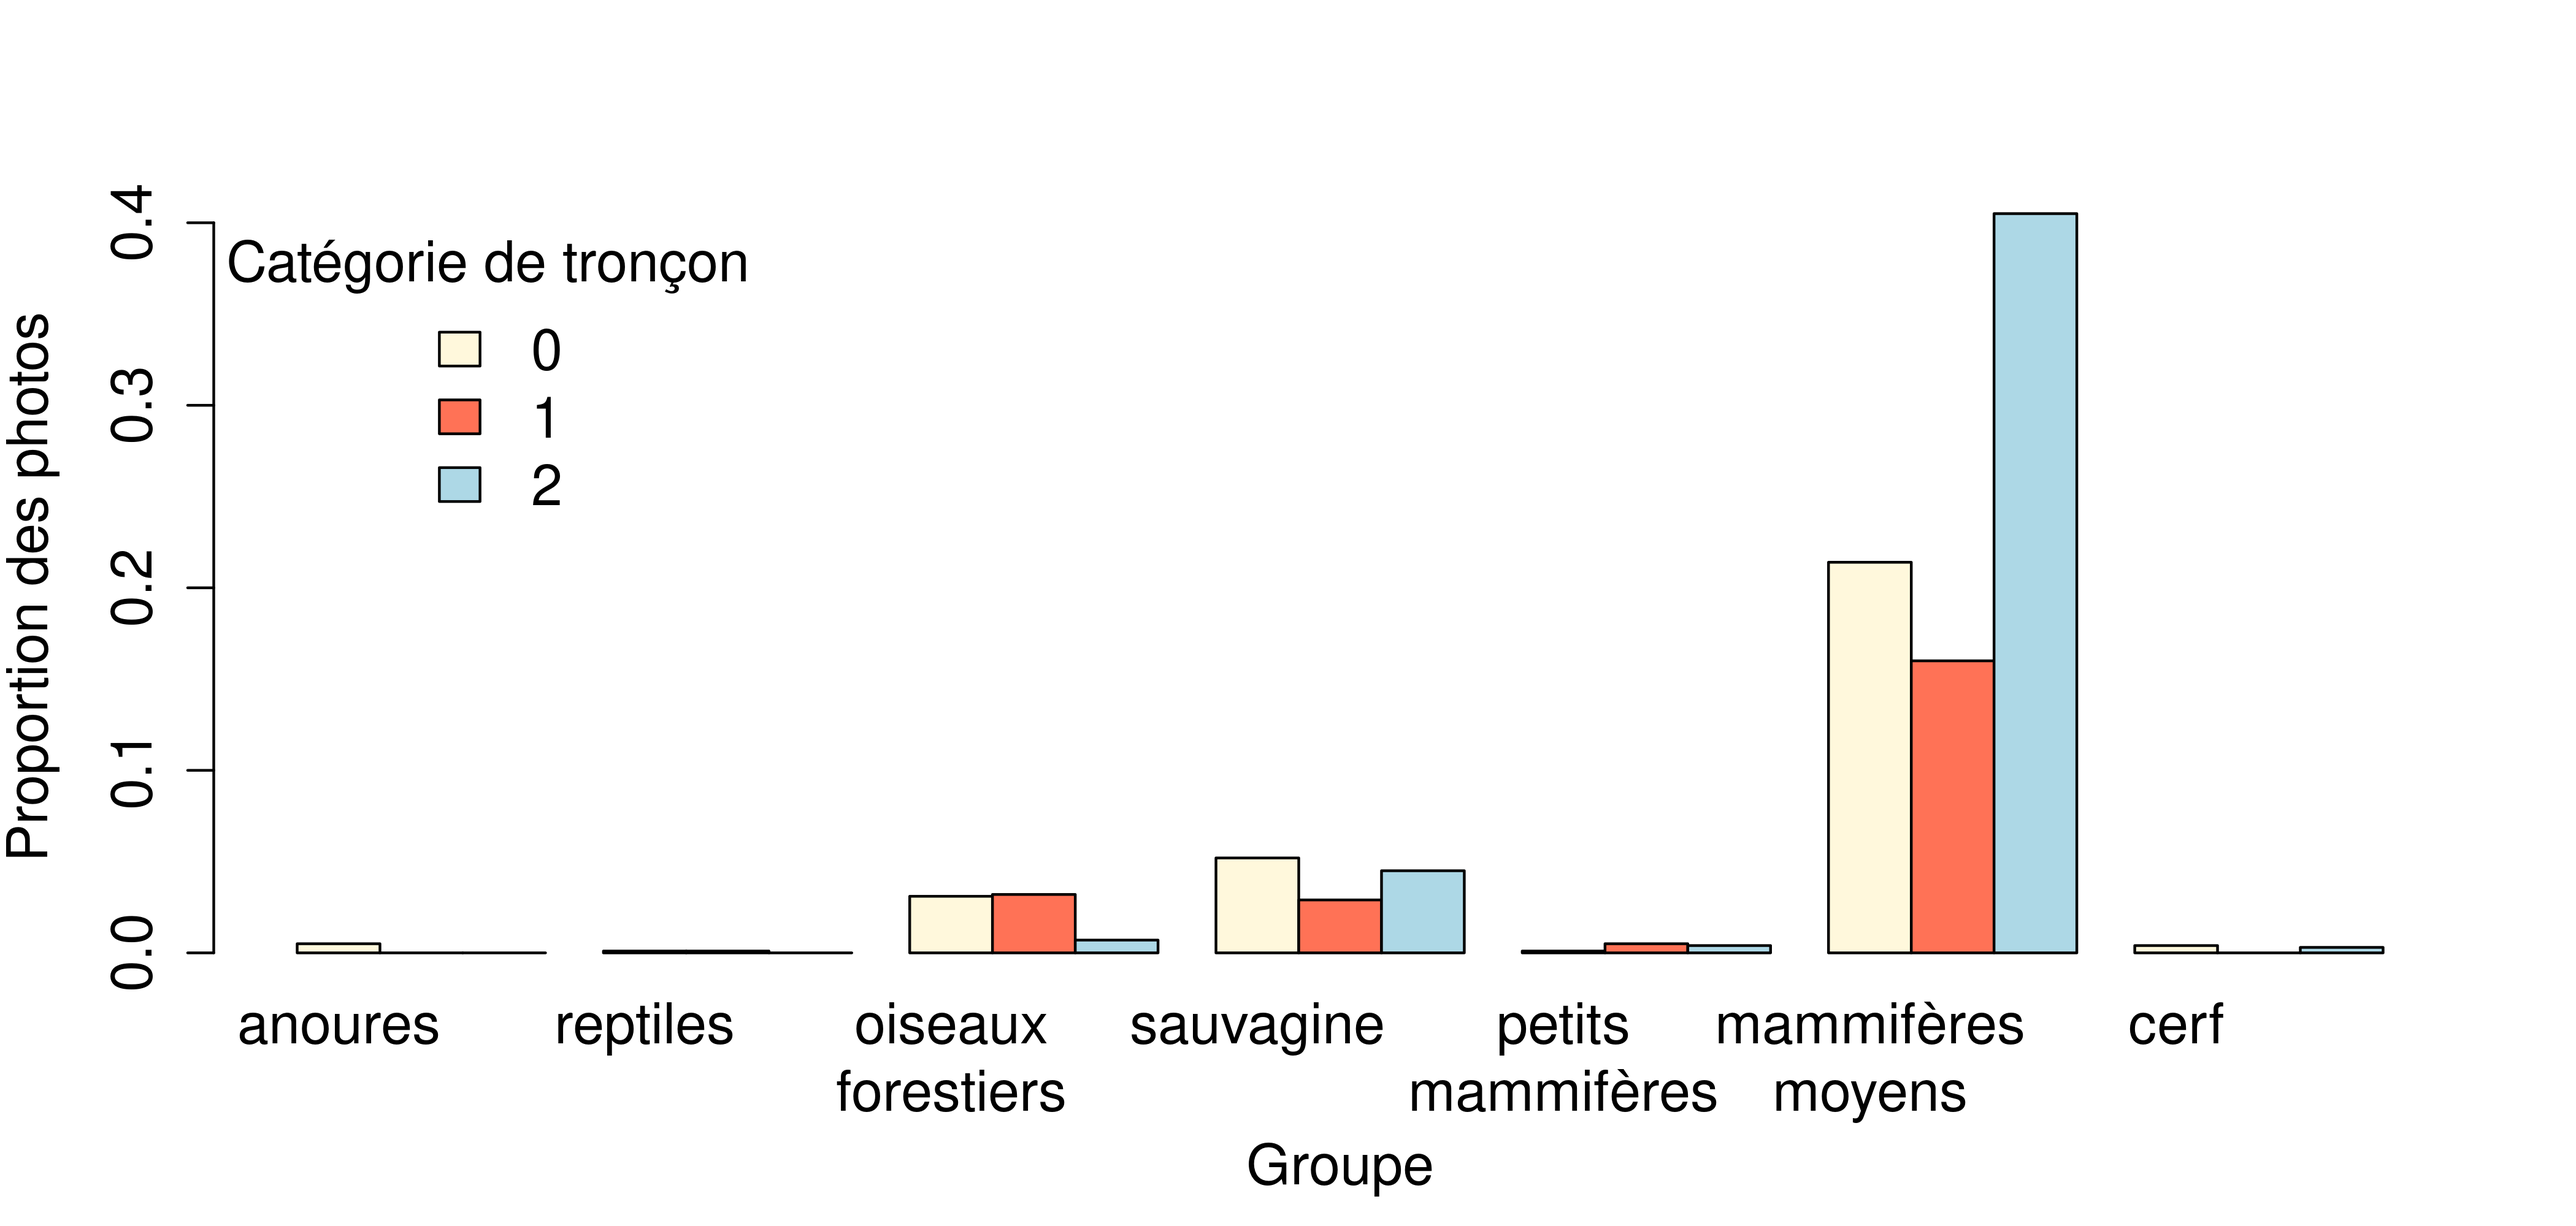
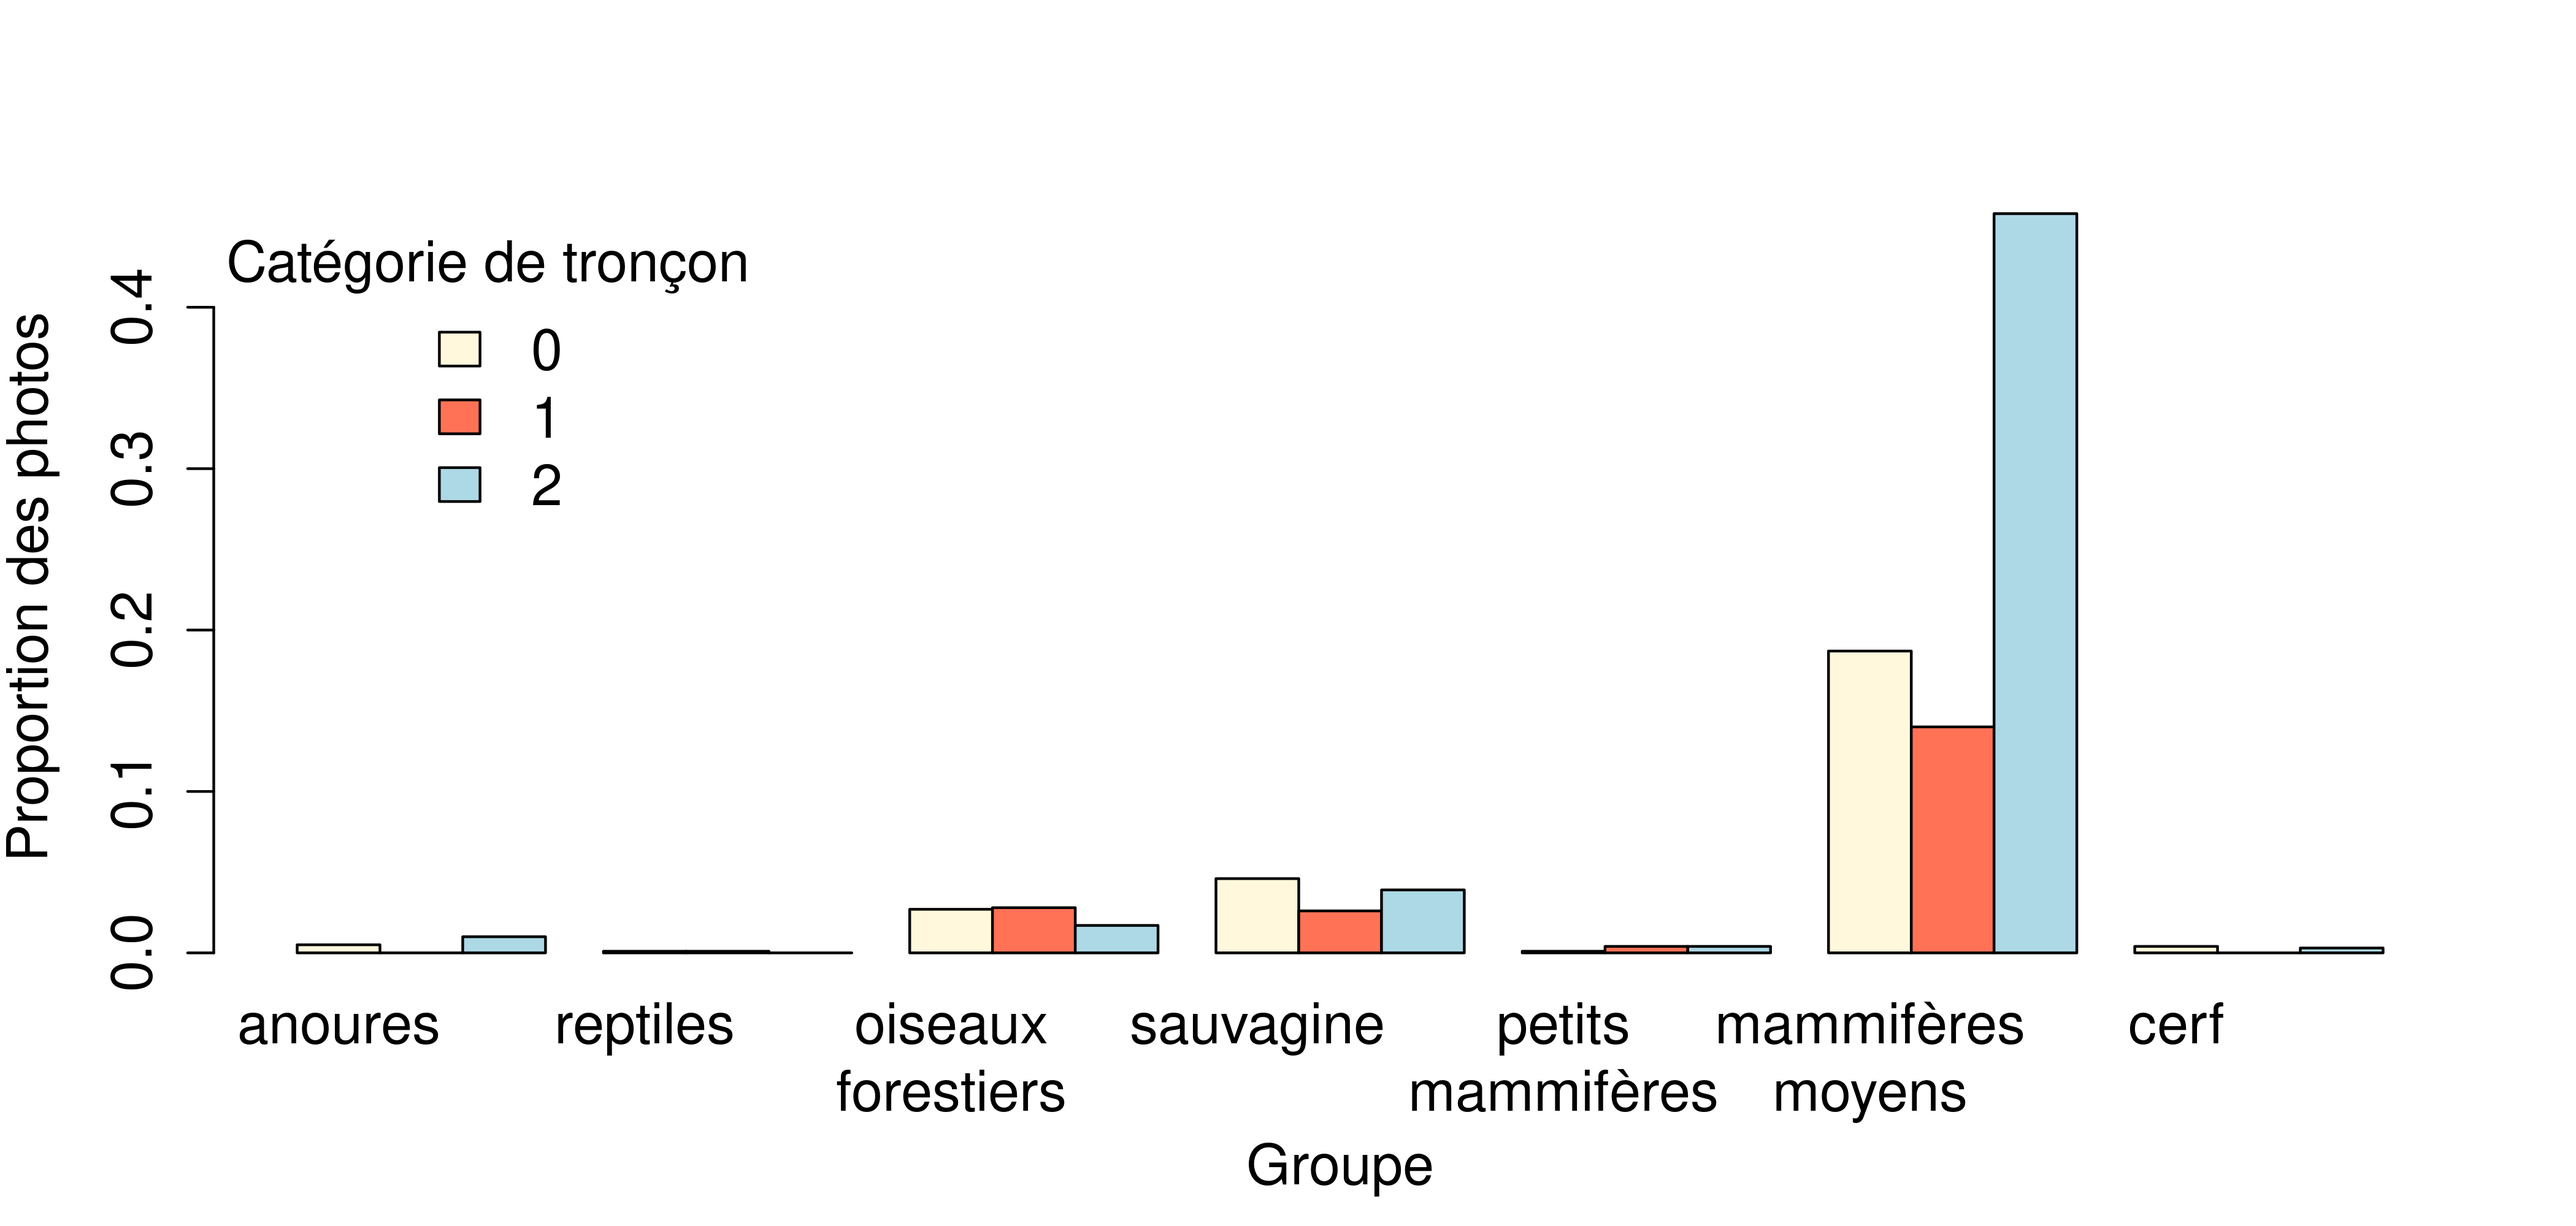
updated results 2 for camera traps

diff --git a/liv3/sections/result_II.tex b/liv3/sections/result_II.tex
@@ -58,14 +58,11 @@ Bien que certains tronçons de catégorie 1 présentent des nombres parfois éle
 
 \subsubsection{Persistance de carcasses sur la route}
 
-Durant l'été 2025, 57 tests de persistance ont été réalisés. Bien que le protocole fonctionnait avec deux tests par tronçon (un le matin et un le soir) trois tests
-ont dû être annulés en raison d'un problème de matériel ou par manque de temps. Après visionnage des images des caméras, il s'avère que pour 15 tests (26~\%), l'appât a été retiré par un prédateur ou
-déplacé par un élément extérieur non identifié (figure~\ref{fig:persi_pred_25}). Dans 7 de ces cas (47~\%), la
-prédation était avérée et le prédateur identifié. Parmi les prédateurs, nous avons pu identifier la corneille d'Amérique et le grand corbeau, qui étaient responsables de la prédation dans 6 tests. Pour le cas de prédation restant, le prédateur identifié était un chat domestique (Fig. \ref{fig:persi_pred_25}).
+Durant l'été 2025, 57 tests de persistance ont été réalisés. Bien que le protocole \delM{fonctionnait avec}\addM{planifiait} deux tests par tronçon (un le matin et un le soir)\addM{,} trois tests ont dû être annulés en raison d'un problème de matériel ou par manque de temps. \addM{Suite au visionnement des images,} \delM{Après visionnage des images des caméras,} il s'avère que \addM{l'appât a été retiré par un prédateur ou déplacé par un élément extérieur non identifié pour 15 tests (26~\%)} (figure~\ref{fig:persi_pred_25}). Dans 7 de ces cas (47~\%), la prédation \delM{était avérée}\addM{a été confirmée} et le prédateur identifié. Parmi les prédateurs, nous avons pu identifier la corneille d'Amérique et le grand corbeau, qui étaient responsables de la prédation dans 6 tests. Pour le cas de prédation restant, le prédateur identifié était un chat domestique (Fig. \ref{fig:persi_pred_25}).
 
 
 Nous avons également comparé la probabilité de retrait de l'appât entre le matin et le
-soir, pour ce faire nous avons utilisé un modèle linéaire généralisé mixte binomial (lien
+soir\delM{,} \addM{Pour ce faire,} nous avons utilisé un modèle linéaire généralisé mixte binomial (lien
 logit ; \texttt{glmer}, package \texttt{lme4}), avec le
 moment du déploiement (matin ou soir) en effet fixe et le tronçon en effet
 aléatoire sur l'ordonnée à l'origine, la plupart des tronçons ayant fait
@@ -96,12 +93,12 @@ rétro-transformés en probabilités. Au final, il s'avère que la probabilité 
 
 \subsubsection{Pièges photographiques}
 
-Un total de \mbox{2 584 774} images prises en 2025 sur les trente ponceaux à l'étude ont été traitées par MegaDetector, nécessitant \mbox{5 780 601} secondes de temps de calcul, équivalant à 66.9 jours de calcul en continu. À partir de ces images traitées, nous avons terminé la validation des images de 18 ponceaux, ce qui représente 54~\% des photos du jeu de données. Nous avons inspecté les 38 110 images étiquetées par MegaDetector comme ayant des détections animales pour lesquelles la confiance était $\geq 75$~\% dans ces 18 ponceaux. La validation de ces images par un humain a révélé que le taux de vrais positifs était de 45.95~\%: 19 090 des détections étaient de vraies détection d'animaux. Le taux de faux positifs était de 54.05\% (i.e., détections présumées par MegaDetector mais non avérées). À partir des 38 110 images étiquetées par MegaDetector, nous avons également noté des faux-négatifs, c'est-à-dire, des sections d'images où MegaDetector n'avait pas déclaré la présence d'un animal. À partir de l'inspection des images des 18 ponceaux pour lesquelles le seuil de confiance $\geq 75$~\%, nous avons détecté 2 465 animaux additionnels. Au total, nous avons répertorié 21 555 détections animales sur les 1 395 515 images des 18 ponceaux.
+Un total de \mbox{2 584 774} images prises en 2025 sur les trente ponceaux à l'étude ont été traitées par MegaDetector, nécessitant \mbox{5 780 601} secondes de temps de calcul, équivalant à 66.9 jours de calcul en continu. À partir de ces images traitées, nous avons terminé la validation des images de 19 ponceaux, ce qui représente 58~\% des photos du jeu de données. Nous avons inspecté les 42 678 images étiquetées par MegaDetector comme ayant des détections animales pour lesquelles la confiance était $\geq 75$~\% dans ces 19 ponceaux. La validation de ces images par un humain a révélé que le taux de vrais positifs était de 46.96~\%: 21 865 des détections étaient de vraies détection d'animaux. Le taux de faux positifs était de 53.03\% (i.e., détections présumées par MegaDetector mais non avérées). À partir des 42 678 images étiquetées par MegaDetector, nous avons également noté des faux-négatifs, c'est-à-dire, des sections d'images où MegaDetector n'avait pas déclaré la présence d'un animal. À partir de l'inspection des images des 19 ponceaux pour lesquelles le seuil de confiance $\geq 75$~\%, nous avons détecté 2 695 animaux additionnels. Au total, nous avons répertorié 24 560 détections animales sur les 1 504 842 images des 19 ponceaux.
 
-Différents groupes et espèces ont été observées sur les images, incluant des invertébrés (araignées, odonates, papillons) et plusieurs vertébrés (Tableau \ref{tab:cam-sp-2025}). Des 21 555 détections animales, 78~\% étaient des mammifères de moyenne taille et 13~\% étaient de la sauvagine. Les autres animaux détectés étaient des oiseaux forestiers (7~\%), des petits mammifères (1~\%), des reptiles (0.2~\%) et des amphibiens (0.6~\%) (Fig. \ref{fig:cam-Prop-2025}. La répartition des observations selon les types de tronçons ne suggère pas de patrons particuliers pour le moment, mis à part les petits mammifères qui semblaient plus fréquents dans les tronçons de catégorie 2 (milieu humide de chaque côté), bien qu'il reste environ 50~\% des images à valider (Fig. \ref{fig:cam-Prop-Type-2025}).
+Différents groupes et espèces ont été observées sur les images, incluant des invertébrés (araignées, odonates, papillons) et plusieurs vertébrés (Tableau \ref{tab:cam-sp-2025}). Des 24 560 détections animales, 79~\% étaient des mammifères de moyenne taille et 11~\% étaient de la sauvagine. Les autres animaux détectés étaient des oiseaux forestiers (7~\%), des petits mammifères (0.9~\%), des reptiles (0.2~\%) et des amphibiens (1.5~\%) (Fig. \ref{fig:cam-Prop-2025}. La répartition des observations selon les types de tronçons ne suggère pas de patrons particuliers pour le moment, mis à part les petits mammifères qui semblaient plus fréquents dans les tronçons de catégorie 2 (milieu humide de chaque côté), bien qu'il reste environ 50~\% des images à valider (Fig. \ref{fig:cam-Prop-Type-2025}).
 
 \begin{table}[H]
-  \caption{Espèces et groupes d'espèces répertoriées sur les images prises par les pièges photographiques dans les ponceaux des tronçons suivis en 2025. Le tableau a été préparé à partir des 21 555 détections animales provenant des 18 tronçons analysés.}
+  \caption{Espèces et groupes d'espèces répertoriées sur les images prises par les pièges photographiques dans les ponceaux des tronçons suivis en 2025. Le tableau a été préparé à partir des 24 560 détections animales provenant des 19 tronçons analysés.}
   \label{tab:cam-sp-2025}
   \begin{tabular}{p{0.3\textwidth}p{0.7\textwidth}}
     \hline
@@ -123,7 +120,7 @@ Différents groupes et espèces ont été observées sur les images, incluant de
 \begin{figure}
   \centering
   \includegraphics[width=0.9\textwidth]{fig/cam-Prop-2025.png}
-\caption{Proportions des images avec détection animales de vertébrés prises par les pièges photographiques dans les ponceaux des tronçons suivis en 2025. La figure a été préparée à partir des 21 555 détections animales provenant des 18 tronçons analysés.}
+\caption{Proportions des images avec détection animales de vertébrés prises par les pièges photographiques dans les ponceaux des tronçons suivis en 2025. La figure a été préparée à partir des 24 560 détections animales provenant des 19 tronçons analysés.}
 \label{fig:cam-Prop-2025}
 \end{figure}
 
@@ -131,7 +128,7 @@ Différents groupes et espèces ont été observées sur les images, incluant de
 \begin{figure}
   \centering
   \includegraphics[width=0.9\textwidth]{fig/cam-Prop-Type-2025.png}
-\caption{Proportions des images avec détection animales de vertébrés prises par les pièges photographiques dans les ponceaux des tronçons suivis en 2025 selon les trois différents types de tronçons échantillonnés. La figure a été préparée à partir des 21 555 détections animales provenant des 18 tronçons analysés.}
+\caption{Proportions des images avec détection animales de vertébrés prises par les pièges photographiques dans les ponceaux des tronçons suivis en 2025 selon les trois différents types de tronçons échantillonnés. La figure a été préparée à partir des 24 560 détections animales provenant des 19 tronçons analysés.}
 \label{fig:cam-Prop-Type-2025}
 \end{figure}
 
